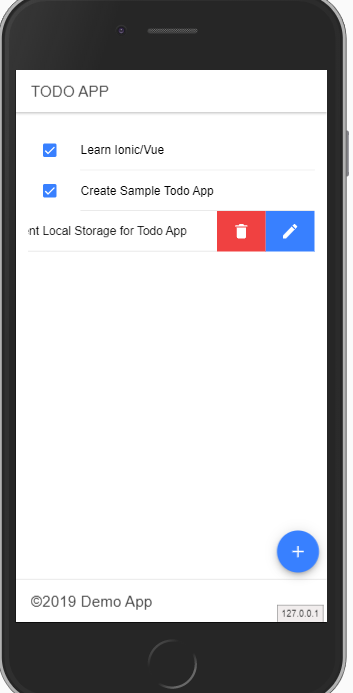
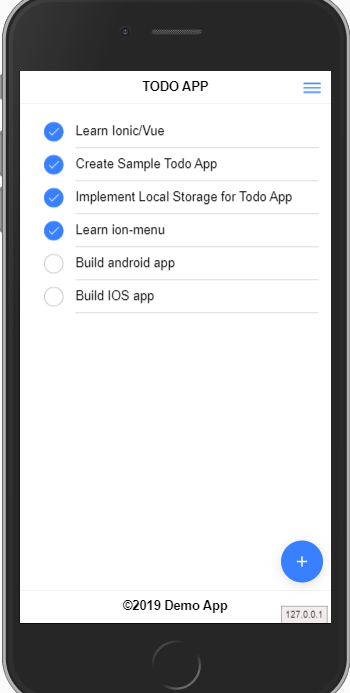
feature(menu): add ion-menu

diff --git a/src/views/Home.vue b/src/views/Home.vue
@@ -1,51 +1,54 @@
 <template>
-  <div class="ion-page">
+  <div>
+    <div class="ion-page">
 
-    <header-component title="TODO APP" />
+        <header-component title="TODO APP" />
 
-    <ion-content class="ion-padding"  center text-center>
+        <ion-content class="ion-padding"  center text-center>
 
-      <!-- List of Text Items -->
-      <ion-list>
+          <!-- List of Text Items -->
+          <ion-list>
 
-        <!-- Sliding item with text options on both sides -->
-        <ion-item-sliding v-for="list in todos" :key="list.id">
+            <!-- Sliding item with text options on both sides -->
+            <ion-item-sliding v-for="list in todos" :key="list.id">
 
-          <ion-item>
-            <ion-checkbox slot="start" :checked="list.done" @click="toggleTodo(list)"></ion-checkbox>
-            <ion-label>{{list.title}}</ion-label>
-          </ion-item>
+              <ion-item>
+                <ion-checkbox slot="start" :checked="list.done" @click="toggleTodo(list)"></ion-checkbox>
+                <ion-label>{{list.title}}</ion-label>
+              </ion-item>
 
-          <ion-item-options side="end">
-            <ion-item-option color="danger" @click="deleteTodo(list)">
-              <ion-icon slot="icon-only" name="trash"></ion-icon>
-            </ion-item-option>
-            <ion-item-option>
-                <ion-icon slot="icon-only" name="create" @click="gotoEditTodo(list)"></ion-icon>
-            </ion-item-option>
-          </ion-item-options>
+              <ion-item-options side="end">
+                <ion-item-option color="danger" @click="deleteTodo(list)">
+                  <ion-icon slot="icon-only" name="trash"></ion-icon>
+                </ion-item-option>
+                <ion-item-option>
+                    <ion-icon slot="icon-only" name="create" @click="gotoEditTodo(list)"></ion-icon>
+                </ion-item-option>
+              </ion-item-options>
 
-        </ion-item-sliding>
+            </ion-item-sliding>
 
-      </ion-list>
+          </ion-list>
 
-      <ion-label v-if="todos.length == 0">No todo(s) found!</ion-label>
+          <ion-label v-if="todos.length == 0">No todo(s) found!</ion-label>
 
-      <!-- Fixed Floating Action Button that does not scroll with the content -->
-      <ion-fab vertical="bottom" horizontal="end" slot="fixed">
-        <router-link to="/new">
-          <ion-fab-button>
-            <ion-icon name="add"></ion-icon>
-          </ion-fab-button>
-        </router-link>
-      </ion-fab>
-      
-    </ion-content>
+          <!-- Fixed Floating Action Button that does not scroll with the content -->
+          <ion-fab vertical="bottom" horizontal="end" slot="fixed">
+            <router-link to="/new">
+              <ion-fab-button>
+                <ion-icon name="add"></ion-icon>
+              </ion-fab-button>
+            </router-link>
+          </ion-fab>
+          
+        </ion-content>
 
 
-    <footer-component />
+        <footer-component />
 
+      </div>
   </div>
+ 
 </template>
 
 <script>

diff --git a/src/App.vue b/src/App.vue
@@ -1,15 +1,45 @@
 <template>
   <div id="app">
     <ion-app>
-
-      <ion-vue-router />
       
-    </ion-app>
+      <!--id attribute is required to link ion-menu's content-id attribute-->
+      <ion-menu side="start" menuId="first" content-id="main" >
+        <ion-header>
+          <ion-toolbar color="primary">
+            <ion-title>Menu</ion-title>
+          </ion-toolbar>
+        </ion-header>
+        <ion-content>
+          <ion-list>
+            <ion-item @click="navigate('home')"> Home </ion-item>
+            <ion-item  @click="navigate('about')"> About </ion-item>
+          </ion-list>
+        </ion-content>
+      </ion-menu>
+      
+      <!--id attribute is required to link ion-menu's content-id attribute-->
+      <ion-vue-router id="main" />
+
+
+  </ion-app>
+
+  <ion-menu-controller></ion-menu-controller>
+
   </div>
 </template>
 
 <script>
 export default {
+  methods: {
+    navigate(newRouteName) {
+      document.querySelector('ion-menu-controller').close();
+      const currentRouteName = this.$router.currentRoute.name;
+      // prevent duplicate route navigation
+      if (currentRouteName != newRouteName) {
+        this.$router.push({name: newRouteName});
+      }
+    }
+  },
   created() {
     if (localStorage) {
       this.$store.dispatch('setTodos', localStorage.getItem('todos'));

diff --git a/src/components/HeaderComponent.vue b/src/components/HeaderComponent.vue
@@ -1,11 +1,18 @@
 <template>
     <ion-header>
         <ion-toolbar>
-            <ion-buttons >
-            <ion-back-button></ion-back-button>
+
+            <ion-buttons slot="start" >
+                <ion-back-button></ion-back-button>
             </ion-buttons>
             
             <ion-title> {{title}} </ion-title>
+
+            
+            <ion-buttons slot="end">
+                <ion-menu-button></ion-menu-button>
+            </ion-buttons>
+                
         </ion-toolbar>
     </ion-header>
 </template>

diff --git a/src/views/Edit.vue b/src/views/Edit.vue
@@ -55,7 +55,6 @@ export default {
     created() {
         this.todoId = this.$route.params.id;
         this.$store.dispatch('findTodo', this.todoId);
-        console.log(this.todo);
     }
 }
 </script>
